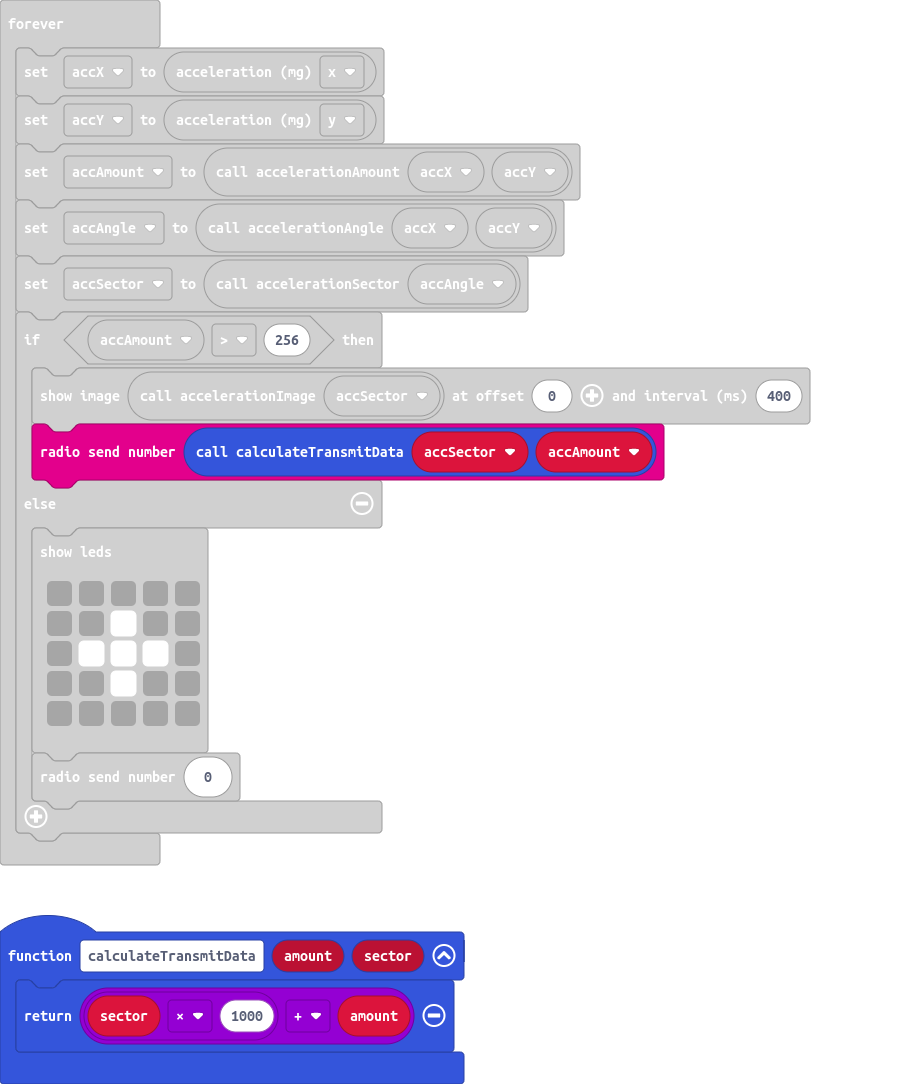
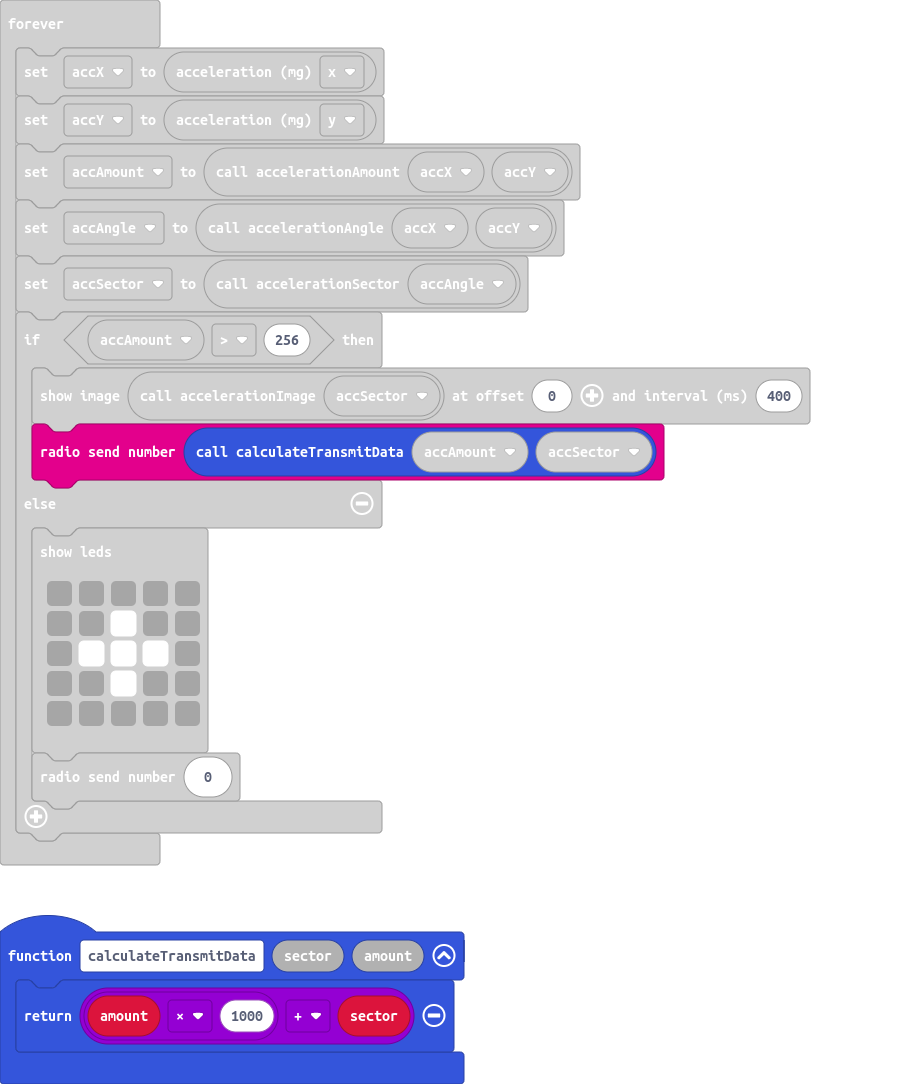
Fix calculateTransmitData: Parameter mismatch

Changed region(s): [[0.4289, 0.3958, 0.7352, 0.4566], [0.3063, 0.8524, 0.4595, 0.9437], [0.1225, 0.9133, 0.1532, 0.9437]]

diff --git a/main.ts b/main.ts
@@ -22,8 +22,8 @@ function accelerationSector (angle: number) {
 function accelerationAmount (x: number, y: number) {
     return Math.trunc(Math.sqrt(x * x + y * y))
 }
-function calculateTransmitData (amount: number, sector: number) {
-    return sector * 1000 + amount
+function calculateTransmitData (sector: number, amount: number) {
+    return amount * 1000 + sector
 }
 function accelerationImage (sector: number) {
     if (sector == 1) {
@@ -120,7 +120,7 @@ basic.forever(function () {
     accSector = accelerationSector(accAngle)
     if (accAmount > 256) {
         accelerationImage(accSector).showImage(0)
-        radio.sendNumber(calculateTransmitData(accSector, accAmount))
+        radio.sendNumber(calculateTransmitData(accAmount, accSector))
     } else {
         basic.showLeds(`
             . . . . .
